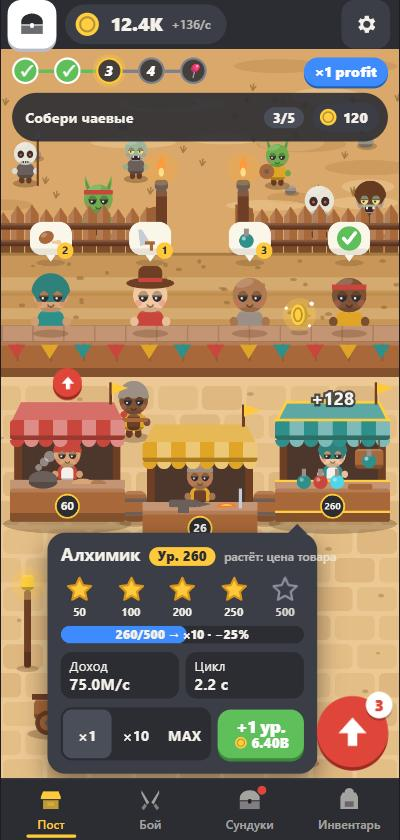
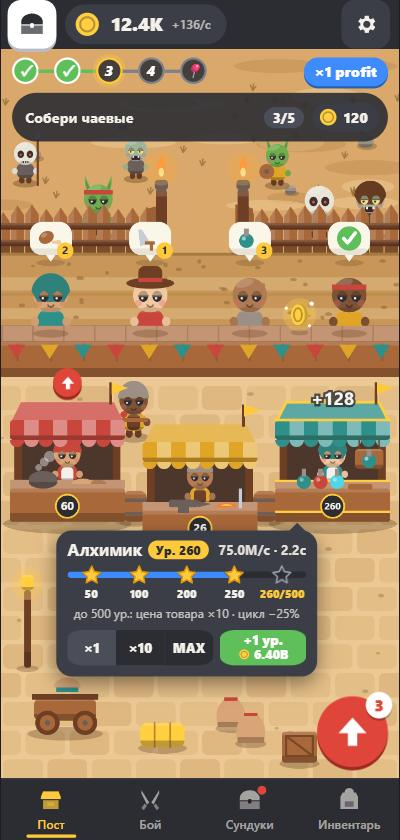
Stage 1.5 prototype: compact station card (inline income/cycle, stars+progress in one block, 44px hit areas with thinner visuals)

Changed region(s): [[0.09, 0.619, 0.84, 0.9286]]

diff --git a/proto/scene.css b/proto/scene.css
@@ -43,30 +43,32 @@ button { font-family: inherit; cursor: pointer; }
 .stn-up svg { width: 15px; height: 15px; }
 @keyframes pulse { 50% { transform: scale(1.08); } }
 
-/* карточка станции */
-.card { position: absolute; width: 244px; padding: 10px 12px 12px; border-radius: 16px; background: var(--ui-panel); box-shadow: 0 8px 22px rgba(0,0,0,.45); }
-.card::before { content: ""; position: absolute; top: -8px; left: var(--tail, 50%); margin-left: -9px; border: 9px solid transparent; border-top: 0; border-bottom-color: var(--ui-panel); }
-.card h3 { margin: 0; white-space: nowrap; display: flex; align-items: baseline; gap: 8px; font-size: 16px; }
-.card h3 .lv { font-size: 12px; padding: 1px 8px; border-radius: 10px; background: var(--ui-yellow); color: #2b2d33; font-weight: 800; }
-.card .sub { font-size: 11px; font-weight: 600; opacity: .7; margin-left: auto; }
-.stars { display: flex; justify-content: space-between; margin: 8px 0 6px; }
-.star { width: 34px; text-align: center; font-size: 10px; opacity: .85; font-weight: 700; }
-.star svg { display: block; width: 26px; height: 26px; margin: 0 auto 1px; }
+/* карточка станции (компактная) */
+.card { position: absolute; width: 236px; padding: 6px 10px 4px; border-radius: 14px; background: var(--ui-panel); box-shadow: 0 6px 18px rgba(0,0,0,.45); }
+.card::before { content: ""; position: absolute; top: -7px; left: var(--tail, 50%); margin-left: -8px; border: 8px solid transparent; border-top: 0; border-bottom-color: var(--ui-panel); }
+.card h3 { margin: 0; height: 22px; display: flex; align-items: center; gap: 6px; white-space: nowrap; font-size: 15px; }
+.card h3 .lv { font-size: 11px; padding: 0 7px; line-height: 17px; border-radius: 9px; background: var(--ui-yellow); color: #2b2d33; font-weight: 800; }
+.card h3 .inc { margin-left: auto; font-size: 12px; font-weight: 700; font-variant-numeric: tabular-nums; opacity: .9; }
+/* звёзды рубежей и прогресс — один блок: дорожка проходит через звёзды */
+.rb { position: relative; display: flex; height: 38px; margin-top: 2px; }
+.rb .track { position: absolute; left: 0; right: 0; top: 7px; height: 6px; border-radius: 3px; background: var(--ui-bg); overflow: hidden; }
+.rb .track i { position: absolute; left: 0; top: 0; bottom: 0; background: var(--ui-blue); border-radius: 3px; }
+.star { position: relative; flex: 1; text-align: center; font-size: 10px; font-weight: 800; line-height: 1; opacity: .8; }
+.star svg { display: block; width: 20px; height: 20px; margin: 0 auto 2px; filter: drop-shadow(0 0 0 #000); }
 .star.on { opacity: 1; }
+.star.next { opacity: 1; color: var(--ui-yellow); }
 .star.next svg { animation: pulse 1.2s ease-in-out infinite; }
-.bar { position: relative; height: 16px; border-radius: 8px; background: var(--ui-bg); overflow: hidden; margin-bottom: 8px; }
-.bar i { position: absolute; left: 0; top: 0; bottom: 0; border-radius: 8px; background: var(--ui-blue); }
-.bar span { position: absolute; inset: 0; display: grid; place-items: center; font-size: 11px; font-weight: 800; }
-.stats { display: flex; gap: 6px; margin-bottom: 8px; }
-.stat { flex: 1; padding: 5px 8px; border-radius: 10px; background: var(--ui-bg); font-size: 12px; }
-.stat b { display: block; font-size: 14px; font-variant-numeric: tabular-nums; }
+.card .eff { margin: 0 0 2px; font-size: 11px; opacity: .75; text-align: center; white-space: nowrap; }
+/* кнопки: зона нажатия 44×44 (прозрачные поля 6 px сверху и снизу), видимая часть 32 px */
 .row { display: flex; gap: 6px; align-items: center; }
-.seg { display: flex; padding: 2px; border-radius: 10px; background: var(--ui-bg); }
-.seg button { min-width: 44px; padding: 0 4px; height: 44px; border: 0; border-radius: 8px; background: transparent; color: var(--ui-text); font-weight: 700; font-size: 13px; }
-.seg button.on { background: var(--ui-panel-light); }
-.buy { flex: 1; white-space: nowrap; padding: 0 6px; height: 44px; border: 0; border-radius: 12px; background: var(--ok); color: #fff; font-weight: 900; font-size: 15px; box-shadow: 0 3px 0 #3c8a39; display: flex; flex-direction: column; align-items: center; justify-content: center; line-height: 1.1; }
-.buy small { font-size: 12px; font-weight: 800; display: flex; align-items: center; gap: 3px; }
-.buy small svg { width: 14px; height: 14px; }
+.seg { display: flex; }
+.seg button, .buy { height: 44px; border: 0; border-top: 6px solid transparent; border-bottom: 6px solid transparent; background-clip: padding-box; font-weight: 800; }
+.seg button { min-width: 44px; padding: 0; background-color: var(--ui-bg); color: var(--ui-text); font-size: 12px; }
+.seg button:first-child { border-radius: 14px 0 0 14px; } .seg button:last-child { border-radius: 0 14px 14px 0; }
+.seg button.on { background-color: var(--ui-panel-light); }
+.buy { flex: 1; min-width: 44px; padding: 0 4px; border-radius: 14px; background-color: var(--ok); color: #fff; font-size: 12px; display: flex; flex-direction: column; align-items: center; justify-content: center; line-height: 1.05; white-space: nowrap; }
+.buy small { font-size: 11px; font-weight: 800; display: flex; align-items: center; gap: 3px; }
+.buy small svg { width: 12px; height: 12px; }
 
 /* нижняя панель */
 .tabbar { position: absolute; left: 0; bottom: 0; width: 100%; height: 56px; display: flex; background: var(--ui-bg); border-top: 1px solid rgba(255,255,255,.08); }

diff --git a/proto/hud.js b/proto/hud.js
@@ -26,19 +26,25 @@
   const which = new URLSearchParams(location.search).get('card') === 'alchemist' ? 'alchemist' : 'forge';
   const MSL = [10, 25, 50, 100, 200, 250, 500];
   const CARDS = {
-    forge:     { idx: 1, name: 'Кузня',   level: 26,  next: 50,  nextTxt: '×3 · −15%', income: fmt(24000), cycle: '3.2 с', cost: 379, sub: 'цена товара' },
-    alchemist: { idx: 2, name: 'Алхимик', level: 260, next: 500, nextTxt: '×10 · −25%', income: fmt(7.5e7), cycle: '2.2 с', cost: fmt(6.4e9), sub: 'цена товара' },
+    forge:     { idx: 1, name: 'Кузня',   level: 26,  next: 50,  effect: 'до 50 ур.: цена товара ×3 · цикл −15%', income: fmt(24000), cycle: '3.2с', cost: 379 },
+    alchemist: { idx: 2, name: 'Алхимик', level: 260, next: 500, effect: 'до 500 ур.: цена товара ×10 · цикл −25%', income: fmt(7.5e7), cycle: '2.2с', cost: fmt(6.4e9) },
   };
   const c = CARDS[which], st = S.stations[c.idx];
   const win = Economy.starWindow(c.level, MSL, 5);
-  const cardW = 244, cardLeft = Math.max(6, Math.min(360 - cardW - 6 - 64 - 4, st.x - cardW / 2));
+  const cardW = 236, cardLeft = Math.max(6, Math.min(360 - cardW - 6 - 64 - 4, st.x - cardW / 2));
   const tail = Math.max(18, Math.min(cardW - 18, st.x - cardLeft));
-  const pct = Math.min(100, c.level / c.next * 100); // заполнение = уровень / ближайший рубеж, как подпись
-  h.push('<div class="card" data-card="' + which + '" style="left:' + cardLeft + 'px;top:' + (top + st.y + 10) + 'px;--tail:' + tail + 'px">' +
-    '<h3>' + c.name + ' <span class="lv">Ур. ' + c.level + '</span><span class="sub">растёт: ' + c.sub + '</span></h3>' +
-    '<div class="stars">' + win.map((w) => '<div class="star' + (w.reached ? ' on' : '') + (w.next ? ' next' : '') + '">' + STAR(w.reached) + w.level + '</div>').join('') + '</div>' +
-    '<div class="bar"><i style="width:' + pct + '%"></i><span>' + c.level + '/' + c.next + ' → ' + c.nextTxt + '</span></div>' +
-    '<div class="stats"><div class="stat">Доход<b>' + c.income + '/с</b></div><div class="stat">Цикл<b>' + c.cycle + '</b></div></div>' +
+  // заполнение дорожки: звёзды стоят в центрах пяти колонок (10%, 30%, …, 90%); до ближайшей звезды — пропорционально уровню
+  const pos = (i) => 0.1 + 0.2 * i;
+  const rw = win.filter((w) => w.reached).length;
+  let fill;
+  if (rw === win.length) fill = 1;
+  else if (rw === 0) fill = pos(0) * c.level / win[0].level;
+  else fill = pos(rw - 1) + (pos(rw) - pos(rw - 1)) * (c.level - win[rw - 1].level) / (win[rw].level - win[rw - 1].level);
+  h.push('<div class="card" data-card="' + which + '" style="left:' + cardLeft + 'px;top:' + (top + st.y + 8) + 'px;--tail:' + tail + 'px">' +
+    '<h3>' + c.name + '<span class="lv">Ур. ' + c.level + '</span><span class="inc">' + c.income + '/с · ' + c.cycle + '</span></h3>' +
+    '<div class="rb"><div class="track"><i style="width:' + (fill * 100).toFixed(1) + '%"></i></div>' +
+    win.map((w) => '<div class="star' + (w.reached ? ' on' : '') + (w.next ? ' next' : '') + '">' + STAR(w.reached) + '<span>' + (w.next ? c.level + '/' + w.level : w.level) + '</span></div>').join('') + '</div>' +
+    '<p class="eff">' + c.effect + '</p>' +
     '<div class="row"><div class="seg"><button class="on">×1</button><button>×10</button><button>MAX</button></div>' +
     '<button class="buy">+1 ур.<small>' + G.currencyIcon('coins') + c.cost + '</small></button></div></div>');
 

diff --git a/ART_GUIDE.md b/ART_GUIDE.md
@@ -71,13 +71,13 @@
 
 ### 4.3 Станции
 - 3–5 станций на локацию (локация 1 «Придорожье»: Таверна (еда), Кузня (оружие), Алхимик (зелья)), ~84 px шириной, во дворе в ряд или в два ряда.
-- **Касание станции** открывает **карточку рядом с ней** (над станцией или под ней — где есть место; закрывается касанием вне карточки). В карточке:
-  - уровень и название характеристики, которую улучшит следующий уровень или рубеж (цена товара / время цикла);
-  - **звёзды рубежей** (вместо текста «26/50 → ×2»): окно из 5 звёзд с подписью уровня под каждой; достигнутые — залитые золотые, ближайший — контурный и пульсирует, остальные — контурные. **Правило окна** (`Economy.starWindow`, тест в `tools/test.js`): окно начинается за два достигнутых рубежа до текущего и упирается в конец списка — `start = clamp(достигнуто − 2, 0, всего − 5)`. Когда впереди осталось меньше 5 рубежей, окно не сжимается, а показывает **последние 5**: пройденные залиты, ближайший пульсирует. Примеры для рубежей 10/25/50/100/200/250/500: ур. 0 → `10> 25 50 100 200`; ур. 26 → `10* 25* 50> 100 200`; ур. 260 → `50* 100* 200* 250* 500>`; ур. 500 (все пройдены) → `50* 100* 200* 250* 500*`, ближайшего нет, полоса заполнена, кнопка «MAX»; если у станции рубежей меньше 5 (или `maxLevel` отсекает часть списка) — показываются все, выровненные влево;
-  - полоса прогресса: заполнение = уровень / ближайший рубеж, подпись «260/500 → ×10 · −25 %» (множитель цены и сокращение цикла следующего рубежа);
-  - доход и время цикла;
-  - зелёная кнопка покупки уровня с ценой (`state_ok`); если не хватает монет — серая с замком и «ещё N»; на потолке — статус **MAX**;
-  - переключатель ×1 / ×10 / MAX (каждая кнопка ≥44×44 px); карточка смещается влево, чтобы не перекрывать кнопку каталога, а «хвостик» остаётся на оси станции.
+- **Касание станции** открывает **компактную карточку рядом с ней** (236 px шириной, ≈130 px высотой, ≈17 % высоты экрана; под ней остаётся видна нижняя часть сцены). Карточка появляется под станцией, смещается влево, чтобы не перекрывать кнопку каталога, «хвостик» остаётся на оси станции; закрывается касанием вне карточки. Состав сверху вниз:
+  1. **Заголовок в одну строку**: название, плашка «Ур. N», справа `доход/с · цикл` одной строкой без плиток (`24.0K/с · 3.2с`).
+  2. **Единый блок «рубежи + прогресс»**: дорожка проходит через 5 звёзд (пять колонок, звёзды в центрах). Залитая часть дорожки — прогресс: проходит пройденные звёзды и частично заполняет путь к ближайшей. Под звёздами подписи уровней; у ближайшей звезды подпись `уровень/цель` (`26/50`), звезда пульсирует. Отдельного ряда и отдельной полосы прогресса нет.
+  3. **Строка эффекта** следующего рубежа: «до 50 ур.: цена товара ×3 · цикл −15 %» (она же называет характеристики, которые растут). Все рубежи пройдены — «все рубежи пройдены».
+  4. **Ряд кнопок**: ×1 / ×10 / MAX и зелёная кнопка покупки с ценой (`state_ok`); не хватает монет — серая с замком и «ещё N»; на потолке — **MAX**.
+  - **Правило окна звёзд** (`Economy.starWindow`, тест в `tools/test.js`): окно из 5 звёзд начинается за два достигнутых рубежа до текущего и упирается в конец списка — `start = clamp(достигнуто − 2, 0, всего − 5)`. Когда впереди осталось меньше 5 рубежей, окно не сжимается, а показывает **последние 5**: пройденные залиты, ближайший пульсирует. Примеры для рубежей 10/25/50/100/200/250/500: ур. 0 → `10> 25 50 100 200`; ур. 26 → `10* 25* 50> 100 200`; ур. 260 → `50* 100* 200* 250* 500>`; все пройдены → `50* 100* 200* 250* 500*`, ближайшего нет, дорожка заполнена, кнопка «MAX». Если у станции рубежей меньше 5 (или `maxLevel` отсекает часть списка), показываются все, выровненные влево.
+  - **Зоны нажатия**: кнопки ряда имеют зону 44×44 px при видимой высоте 32 px (прозрачные поля 6 px сверху и снизу).
 - **Постоянного списка станций нет.** Каталог локальных улучшений открывает **большая кнопка**: красный круг 64 px (`state_bad`) с белой стрелкой вверх в правом нижнем углу сцены (над таб-баром, отступ 12 px); пульсирует (масштаб 1→1.08, 1.2 с), на бейдже в углу кнопки — число доступных покупок. Зона касания ≥44 px.
 - **Рубежи 10, 25, 50, 100, 200, 250, 500** дают множитель цены и сокращение цикла (GAME_DESIGN §2.2); внешний вид получает деталь на части из них:
 

diff --git a/README.md b/README.md
@@ -26,4 +26,4 @@ node tools/test.js
 
 ## Публикация (GitHub Pages)
 Settings → Pages → Source: *Deploy from a branch* → `main` / `/ (root)`.
-Адрес: https://pr0gGG.github.io/my_idle_outpost/
+Адрес: https://pr0ggg.github.io/my_idle_outpost/
